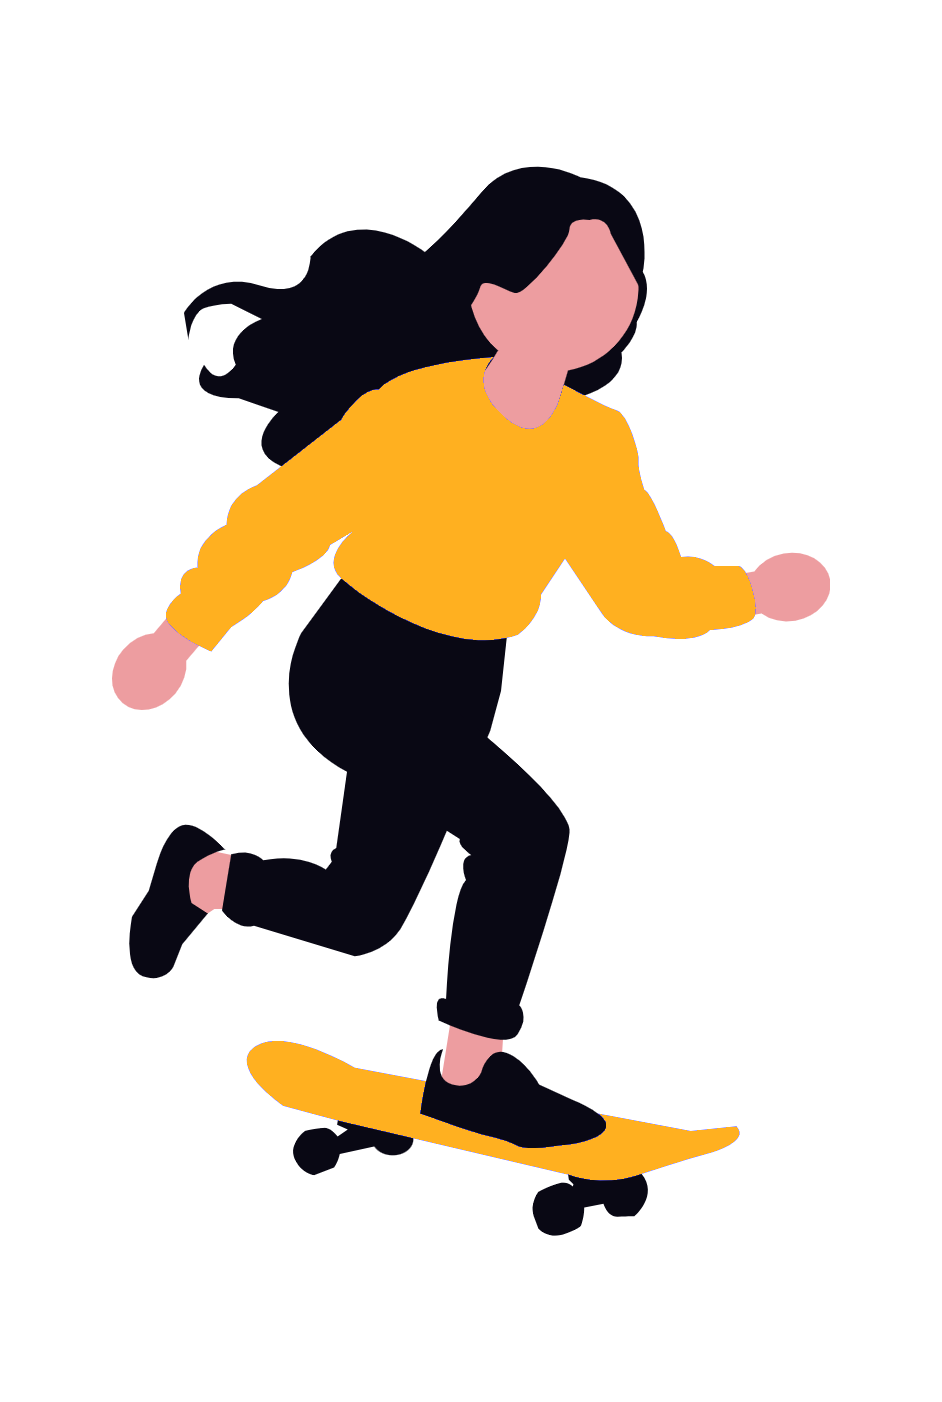
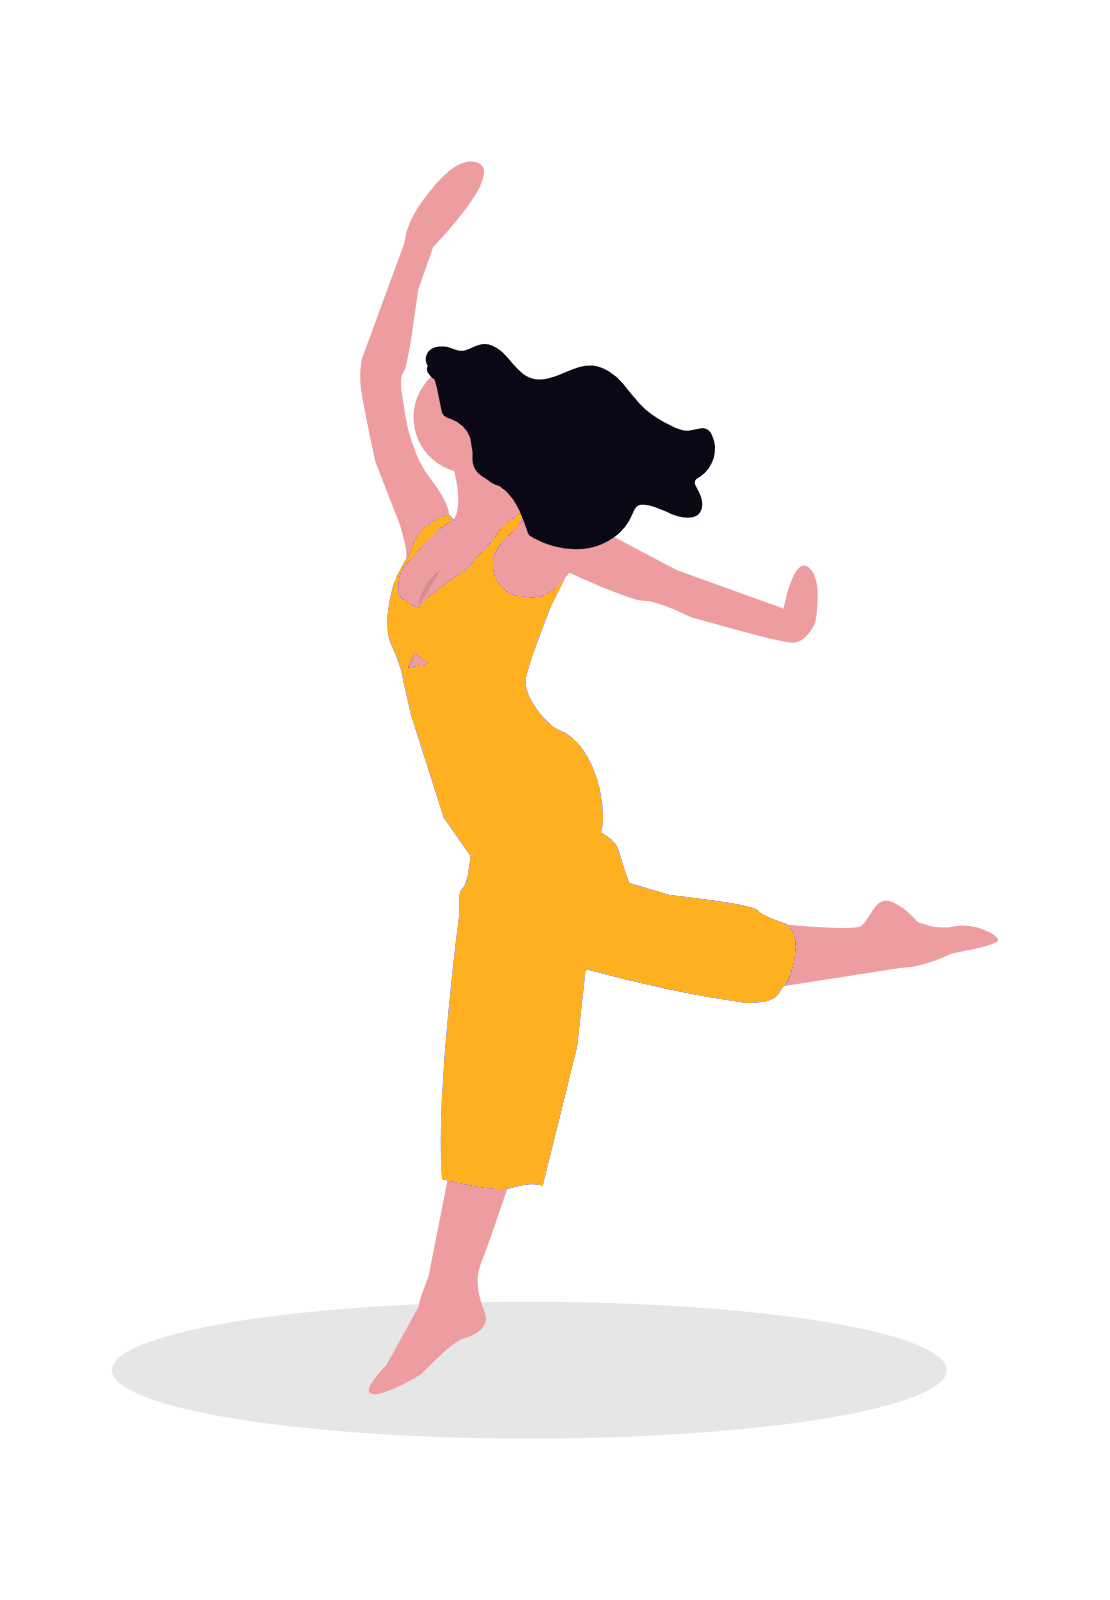
Swap health/balance illustrations, add cache-busting to thumbnails
Leah found the skateboard image unrelated for בריאות - swapped it
with the dance-workout illustration used for שיווי משקל instead.
Also added ?v= query params to all blog thumbnail images, since
same-filename swaps were getting cached and not showing as changed.

Changed region(s): [[0.0924, 0.092, 0.8928, 0.9201]]

diff --git a/blog.html b/blog.html
@@ -55,7 +55,7 @@ src="https://www.facebook.com/tr?id=1002367290734793&ev=PageView&noscript=1"
       <a class="blog-card" href="blog-post-14.html">
         <div class="blog-icon-col">
           <span class="category-tag category-tag--resilience">חוסן נפשי</span>
-          <div class="blog-thumb"><img src="images/blog-thumbs/resilience.png" alt=""></div>
+          <div class="blog-thumb"><img src="images/blog-thumbs/resilience.png?v=2" alt=""></div>
         </div>
         <div class="blog-body">
           <h3>מה עושים כשנופלים אחרי שכבר התקדמתן</h3>
@@ -65,7 +65,7 @@ src="https://www.facebook.com/tr?id=1002367290734793&ev=PageView&noscript=1"
       <a class="blog-card" href="blog-post-13.html">
         <div class="blog-icon-col">
           <span class="category-tag category-tag--inspiration">השראה</span>
-          <div class="blog-thumb"><img src="images/blog-thumbs/inspiration.png" alt=""></div>
+          <div class="blog-thumb"><img src="images/blog-thumbs/inspiration.png?v=2" alt=""></div>
         </div>
         <div class="blog-body">
           <h3>הצעד הראשון הוא הכי קשה</h3>
@@ -75,7 +75,7 @@ src="https://www.facebook.com/tr?id=1002367290734793&ev=PageView&noscript=1"
       <a class="blog-card" href="blog-post-12.html">
         <div class="blog-icon-col">
           <span class="category-tag category-tag--health">בריאות</span>
-          <div class="blog-thumb"><img src="images/blog-thumbs/health.png" alt=""></div>
+          <div class="blog-thumb"><img src="images/blog-thumbs/health.png?v=3" alt=""></div>
         </div>
         <div class="blog-body">
           <h3>כאב כרוני לא אומר שצריך להפסיק לזוז</h3>
@@ -85,7 +85,7 @@ src="https://www.facebook.com/tr?id=1002367290734793&ev=PageView&noscript=1"
       <a class="blog-card" href="blog-post-11.html">
         <div class="blog-icon-col">
           <span class="category-tag category-tag--balance">שיווי משקל</span>
-          <div class="blog-thumb"><img src="images/blog-thumbs/balance.png" alt=""></div>
+          <div class="blog-thumb"><img src="images/blog-thumbs/balance.png?v=3" alt=""></div>
         </div>
         <div class="blog-body">
           <h3>הפחד מנפילה מגביל אתכן יותר מהגוף עצמו</h3>
@@ -95,7 +95,7 @@ src="https://www.facebook.com/tr?id=1002367290734793&ev=PageView&noscript=1"
       <a class="blog-card" href="blog-post-10.html">
         <div class="blog-icon-col">
           <span class="category-tag category-tag--strength">כוח</span>
-          <div class="blog-thumb"><img src="images/blog-thumbs/strength.png" alt=""></div>
+          <div class="blog-thumb"><img src="images/blog-thumbs/strength.png?v=2" alt=""></div>
         </div>
         <div class="blog-body">
           <h3>כוח פונקציונלי: מה שבאמת עוזר ביום-יום</h3>
@@ -105,7 +105,7 @@ src="https://www.facebook.com/tr?id=1002367290734793&ev=PageView&noscript=1"
       <a class="blog-card" href="blog-post-9.html">
         <div class="blog-icon-col">
           <span class="category-tag category-tag--sleep">שינה</span>
-          <div class="blog-thumb"><img src="images/blog-thumbs/sleep.png" alt=""></div>
+          <div class="blog-thumb"><img src="images/blog-thumbs/sleep.png?v=2" alt=""></div>
         </div>
         <div class="blog-body">
           <h3>מתעוררות באמצע הלילה ולא נרדמות בחזרה?</h3>
@@ -115,7 +115,7 @@ src="https://www.facebook.com/tr?id=1002367290734793&ev=PageView&noscript=1"
       <a class="blog-card" href="blog-post-8.html">
         <div class="blog-icon-col">
           <span class="category-tag category-tag--nutrition">תזונה</span>
-          <div class="blog-thumb"><img src="images/blog-thumbs/nutrition.png" alt=""></div>
+          <div class="blog-thumb"><img src="images/blog-thumbs/nutrition.png?v=2" alt=""></div>
         </div>
         <div class="blog-body">
           <h3>למה יש נפילת אנרגיה כל צהריים</h3>
@@ -125,7 +125,7 @@ src="https://www.facebook.com/tr?id=1002367290734793&ev=PageView&noscript=1"
       <a class="blog-card" href="blog-post-7.html">
         <div class="blog-icon-col">
           <span class="category-tag category-tag--resilience">חוסן נפשי</span>
-          <div class="blog-thumb"><img src="images/blog-thumbs/resilience.png" alt=""></div>
+          <div class="blog-thumb"><img src="images/blog-thumbs/resilience.png?v=2" alt=""></div>
         </div>
         <div class="blog-body">
           <h3>5 סימנים שה'חלודה' מתחילה - ואיך עוצרים אותה בזמן</h3>
@@ -135,7 +135,7 @@ src="https://www.facebook.com/tr?id=1002367290734793&ev=PageView&noscript=1"
       <a class="blog-card" href="blog-post-6.html">
         <div class="blog-icon-col">
           <span class="category-tag category-tag--health">בריאות</span>
-          <div class="blog-thumb"><img src="images/blog-thumbs/health.png" alt=""></div>
+          <div class="blog-thumb"><img src="images/blog-thumbs/health.png?v=3" alt=""></div>
         </div>
         <div class="blog-body">
           <h3>5 בדיקות בריאות שכדאי לא לדחות</h3>
@@ -145,7 +145,7 @@ src="https://www.facebook.com/tr?id=1002367290734793&ev=PageView&noscript=1"
       <a class="blog-card" href="blog-post-5.html">
         <div class="blog-icon-col">
           <span class="category-tag category-tag--balance">שיווי משקל</span>
-          <div class="blog-thumb"><img src="images/blog-thumbs/balance.png" alt=""></div>
+          <div class="blog-thumb"><img src="images/blog-thumbs/balance.png?v=3" alt=""></div>
         </div>
         <div class="blog-body">
           <h3>תרגילי שיווי משקל פשוטים שכדאי לשלב בשגרה</h3>
@@ -155,7 +155,7 @@ src="https://www.facebook.com/tr?id=1002367290734793&ev=PageView&noscript=1"
       <a class="blog-card" href="blog-post-4.html">
         <div class="blog-icon-col">
           <span class="category-tag category-tag--strength">כוח</span>
-          <div class="blog-thumb"><img src="images/blog-thumbs/strength.png" alt=""></div>
+          <div class="blog-thumb"><img src="images/blog-thumbs/strength.png?v=2" alt=""></div>
         </div>
         <div class="blog-body">
           <h3>איך בונים כוח גופני בבטחה בכל גיל</h3>
@@ -165,7 +165,7 @@ src="https://www.facebook.com/tr?id=1002367290734793&ev=PageView&noscript=1"
       <a class="blog-card" href="blog-post-3.html">
         <div class="blog-icon-col">
           <span class="category-tag category-tag--sleep">שינה</span>
-          <div class="blog-thumb"><img src="images/blog-thumbs/sleep.png" alt=""></div>
+          <div class="blog-thumb"><img src="images/blog-thumbs/sleep.png?v=2" alt=""></div>
         </div>
         <div class="blog-body">
           <h3>למה שינה טובה היא הבסיס לכל שינוי אחר</h3>
@@ -175,7 +175,7 @@ src="https://www.facebook.com/tr?id=1002367290734793&ev=PageView&noscript=1"
       <a class="blog-card" href="blog-post-2.html">
         <div class="blog-icon-col">
           <span class="category-tag category-tag--nutrition">תזונה</span>
-          <div class="blog-thumb"><img src="images/blog-thumbs/nutrition.png" alt=""></div>
+          <div class="blog-thumb"><img src="images/blog-thumbs/nutrition.png?v=2" alt=""></div>
         </div>
         <div class="blog-body">
           <h3>5 הרגלי תזונה קטנים שעושים הבדל גדול אחרי גיל 50</h3>
@@ -185,7 +185,7 @@ src="https://www.facebook.com/tr?id=1002367290734793&ev=PageView&noscript=1"
       <a class="blog-card" href="blog-post-1.html">
         <div class="blog-icon-col">
           <span class="category-tag category-tag--inspiration">השראה</span>
-          <div class="blog-thumb"><img src="images/blog-thumbs/inspiration.png" alt=""></div>
+          <div class="blog-thumb"><img src="images/blog-thumbs/inspiration.png?v=2" alt=""></div>
         </div>
         <div class="blog-body">
           <h3>5 אמונות מגבילות על גיל שכבר אפשר להיפרד מהן</h3>
